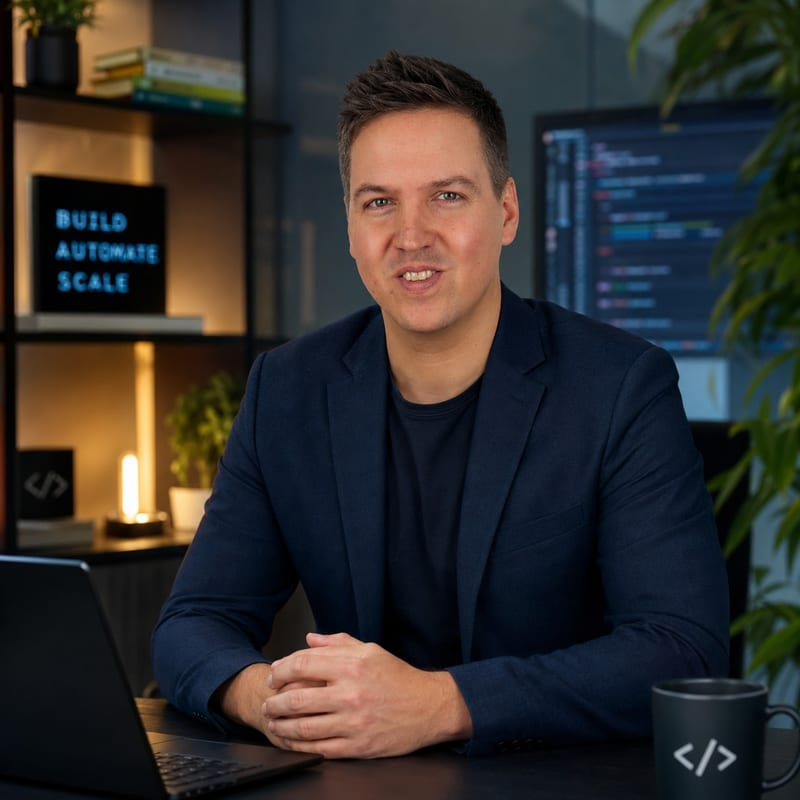
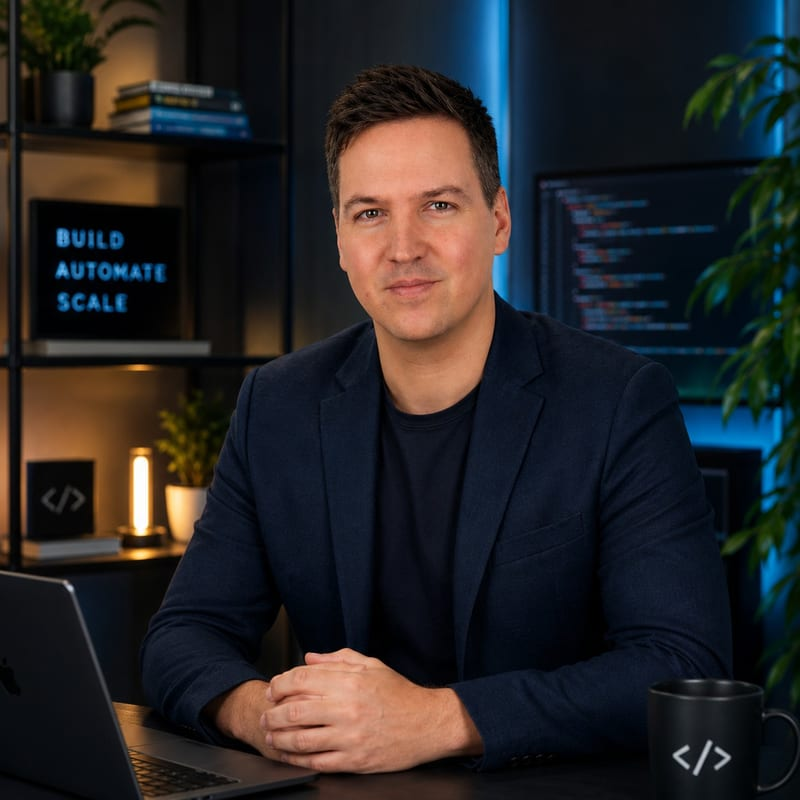
swap founder portrait, add channel diagnostics to contact API
Photo: new founder shot regenerated to AVIF/WebP/JPEG at 800x800.

Contact API:
- Add GET /api/contact returning env detection (resend_api_key + telegram_bot_token
  booleans, never the values) plus contact_to/from + chat id. Use this from
  the browser on the deployed env to verify keys are actually wired.
- POST response now includes channels: { team, visitor, telegram } with per-
  channel { status: sent | skipped | failed, reason?/error? }, so silent
  failures are surfaced. When Resend rejects (e.g. domain not verified) the
  error message includes the full Resend response body in server logs.
- Distinguish "not_configured" (all channels skipped) from "send_failed"
  (channels tried but all rejected). Surface "not_configured" to the user
  as: "A küldés még nincs beüzemelve."

diff --git a/app/api/contact/route.ts b/app/api/contact/route.ts
@@ -18,6 +18,11 @@ type FormData = {
   challenge: string;
 };
 
+type ChannelResult =
+  | { status: "sent" }
+  | { status: "skipped"; reason: string }
+  | { status: "failed"; error: string };
+
 function isEmail(v: string) {
   return /^[^\s@]+@[^\s@]+\.[^\s@]+$/.test(v);
 }
@@ -32,6 +37,24 @@ function escapeHtml(s: string) {
 
 const TEAM_EMAIL = process.env.CONTACT_TO || "team@zentopia.io";
 const FROM_EMAIL = process.env.CONTACT_FROM || "Zentopia <team@zentopia.io>";
+
+// GET — config health check. Doesn't reveal secret values, just whether each
+// channel is configured. Call this from the browser to verify deploy env.
+export async function GET() {
+  return NextResponse.json({
+    ok: true,
+    env: {
+      resend_api_key: !!process.env.RESEND_API_KEY,
+      telegram_bot_token: !!process.env.TELEGRAM_BOT_TOKEN,
+    },
+    config: {
+      contact_to: TEAM_EMAIL,
+      contact_from: FROM_EMAIL,
+      telegram_chat_id: process.env.TELEGRAM_CHAT_ID || "5275561903",
+    },
+    runtime: process.env.NEXT_RUNTIME || "nodejs",
+  });
+}
 
 export async function POST(req: Request) {
   try {
@@ -58,30 +81,57 @@ export async function POST(req: Request) {
       return NextResponse.json({ ok: false, error: "invalid_email" }, { status: 400 });
     }
 
-    // Fan-out: team email, visitor confirmation, Telegram. Failures on any one
-    // channel are tolerated so the visitor's submission isn't lost. If every
-    // configured external send fails, log loudly and surface 502.
-    const results = await Promise.allSettled([
-      sendTeamNotification(data),
-      sendVisitorConfirmation(data),
-      sendTelegramNotification(data),
+    const [team, visitor, telegram] = await Promise.all([
+      runChannel("team", () => sendTeamNotification(data)),
+      runChannel("visitor", () => sendVisitorConfirmation(data)),
+      runChannel("telegram", () => sendTelegramNotification(data)),
     ]);
 
-    const failures = results.filter((r) => r.status === "rejected");
-    if (failures.length === results.length) {
-      for (const f of failures) {
-        console.error("[contact] all channels failed:", (f as PromiseRejectedResult).reason);
-      }
-      return NextResponse.json({ ok: false, error: "send_failed" }, { status: 502 });
-    }
-    for (const f of failures) {
-      console.warn("[contact] channel failure:", (f as PromiseRejectedResult).reason);
+    const channels = { team, visitor, telegram };
+    const anySent = Object.values(channels).some((c) => c.status === "sent");
+    const anyFailed = Object.values(channels).some((c) => c.status === "failed");
+    const allSkipped = Object.values(channels).every((c) => c.status === "skipped");
+
+    if (allSkipped) {
+      console.error(
+        "[contact] all channels skipped — no env keys set. Configure RESEND_API_KEY and TELEGRAM_BOT_TOKEN."
+      );
+      return NextResponse.json(
+        { ok: false, error: "not_configured", channels },
+        { status: 500 }
+      );
     }
 
-    return NextResponse.json({ ok: true });
+    if (!anySent) {
+      return NextResponse.json(
+        { ok: false, error: "send_failed", channels },
+        { status: 502 }
+      );
+    }
+
+    // At least one channel got through. Surface partial failures in the
+    // response (the UI shows the friendly message; the network panel and
+    // server logs carry the diagnostics).
+    if (anyFailed) {
+      console.warn("[contact] partial failure:", JSON.stringify(channels));
+    }
+    return NextResponse.json({ ok: true, channels });
   } catch (err) {
     console.error("[contact] unhandled error:", err);
     return NextResponse.json({ ok: false, error: "server_error" }, { status: 500 });
+  }
+}
+
+async function runChannel(
+  name: string,
+  fn: () => Promise<ChannelResult>
+): Promise<ChannelResult> {
+  try {
+    return await fn();
+  } catch (err) {
+    const msg = err instanceof Error ? err.message : String(err);
+    console.error(`[contact] channel "${name}" failed:`, msg);
+    return { status: "failed", error: msg };
   }
 }
 
@@ -97,12 +147,11 @@ async function sendResendEmail({
   html: string;
   text: string;
   replyTo?: string;
-}) {
+}): Promise<ChannelResult> {
   const key = process.env.RESEND_API_KEY;
   if (!key) {
-    // Local dev fallback — log and treat as success so the UI flow stays end-to-end.
-    console.log("[contact] (no RESEND_API_KEY) email skipped:", { to, subject });
-    return;
+    console.warn(`[contact] RESEND_API_KEY missing — email to ${to} not sent`);
+    return { status: "skipped", reason: "RESEND_API_KEY not set" };
   }
   const payload: Record<string, unknown> = {
     from: FROM_EMAIL,
@@ -121,10 +170,15 @@ async function sendResendEmail({
     },
     body: JSON.stringify(payload),
   });
+  const responseBody = await res.text().catch(() => "");
   if (!res.ok) {
-    const detail = await res.text().catch(() => "");
-    throw new Error(`resend ${res.status}: ${detail.slice(0, 240)}`);
+    // Include status + Resend body so the user can see e.g. domain-not-verified errors.
+    throw new Error(
+      `Resend ${res.status} sending to ${to}: ${responseBody.slice(0, 400)}`
+    );
   }
+  console.log(`[contact] Resend ok → ${to} (${responseBody.slice(0, 80)})`);
+  return { status: "sent" };
 }
 
 function summaryRowsHtml(rows: [string, string][]) {
@@ -140,7 +194,7 @@ function summaryRowsHtml(rows: [string, string][]) {
     .join("");
 }
 
-async function sendTeamNotification(d: FormData) {
+async function sendTeamNotification(d: FormData): Promise<ChannelResult> {
   const subjectCompany = d.company || d.name;
   const subjectIndustry = d.industry || "—";
   const subject = `🌿 Új megkeresés: ${subjectCompany} · ${subjectIndustry}`;
@@ -175,7 +229,7 @@ ${d.challenge}
 
 // Jelentkezzünk 24 órán belül.`;
 
-  await sendResendEmail({
+  return sendResendEmail({
     to: TEAM_EMAIL,
     subject,
     html,
@@ -184,7 +238,7 @@ ${d.challenge}
   });
 }
 
-async function sendVisitorConfirmation(d: FormData) {
+async function sendVisitorConfirmation(d: FormData): Promise<ChannelResult> {
   const subject = "Köszi, megkaptuk az üzeneted — Zentopia";
 
   const rows: [string, string][] = [
@@ -226,7 +280,7 @@ ${d.challenge}
 Zentopia csapat
 team@zentopia.io · Budapest, HU`;
 
-  await sendResendEmail({
+  return sendResendEmail({
     to: d.email,
     subject,
     html,
@@ -234,12 +288,12 @@ team@zentopia.io · Budapest, HU`;
   });
 }
 
-async function sendTelegramNotification(d: FormData) {
+async function sendTelegramNotification(d: FormData): Promise<ChannelResult> {
   const token = process.env.TELEGRAM_BOT_TOKEN;
   const chatId = process.env.TELEGRAM_CHAT_ID || "5275561903";
   if (!token) {
-    console.log("[contact] (no TELEGRAM_BOT_TOKEN) telegram skipped");
-    return;
+    console.warn("[contact] TELEGRAM_BOT_TOKEN missing — telegram not sent");
+    return { status: "skipped", reason: "TELEGRAM_BOT_TOKEN not set" };
   }
 
   const lines = [
@@ -263,8 +317,10 @@ async function sendTelegramNotification(d: FormData) {
       disable_web_page_preview: true,
     }),
   });
+  const responseBody = await res.text().catch(() => "");
   if (!res.ok) {
-    const detail = await res.text().catch(() => "");
-    throw new Error(`telegram ${res.status}: ${detail.slice(0, 240)}`);
+    throw new Error(`Telegram ${res.status}: ${responseBody.slice(0, 400)}`);
   }
+  console.log("[contact] Telegram ok");
+  return { status: "sent" };
 }

diff --git a/components/sections/Cta.tsx b/components/sections/Cta.tsx
@@ -118,6 +118,8 @@ function ContactForm() {
               ? "Tölts ki minden kötelező mezőt."
               : json?.error === "invalid_email"
               ? "Adj meg egy érvényes email címet."
+              : json?.error === "not_configured"
+              ? "A küldés még nincs beüzemelve. Írj a team@zentopia.io-ra."
               : "Hiba történt. Próbáld újra, vagy írj a team@zentopia.io-ra.",
         });
       }
